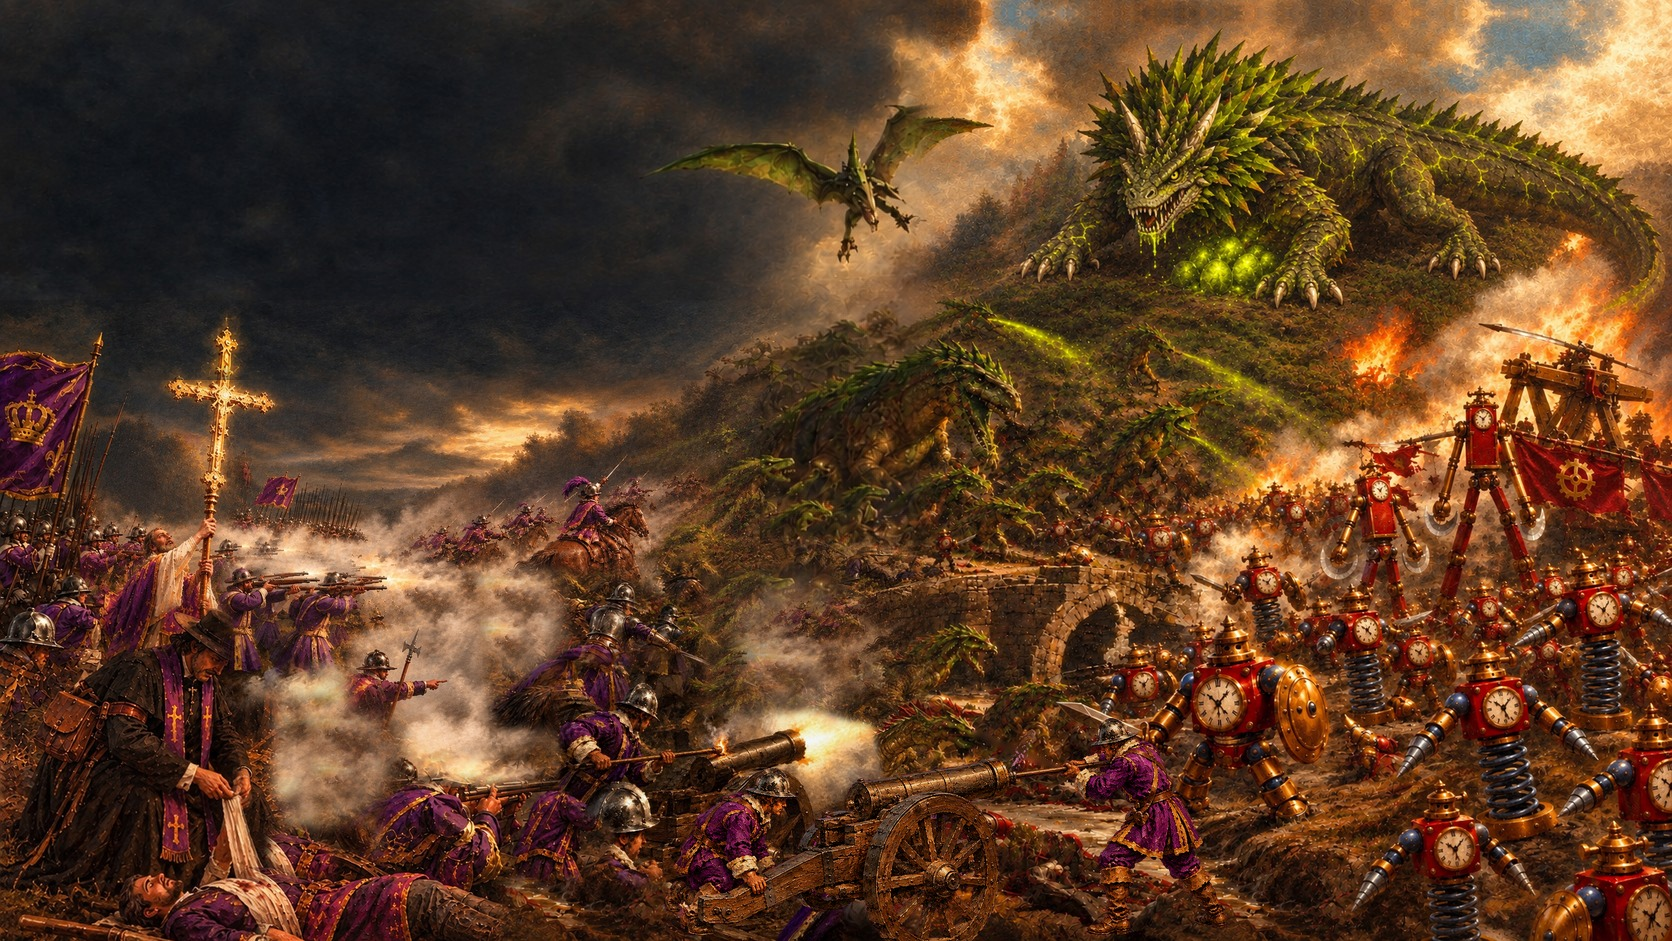
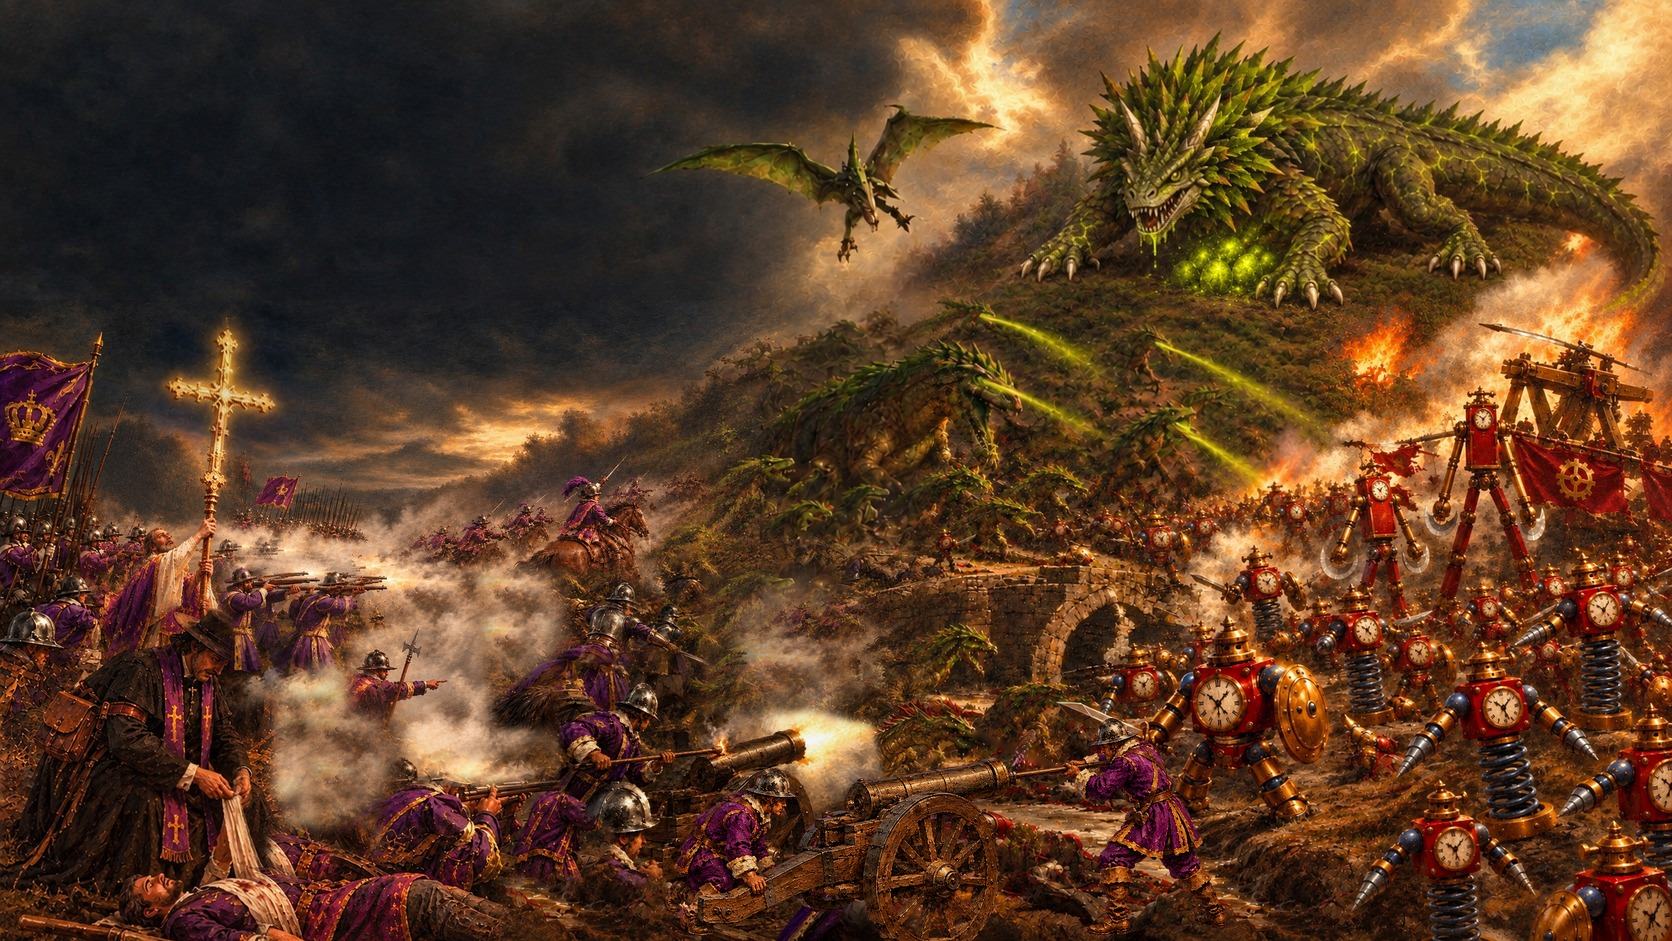
0.34.5: menu painting: the cross's glow, the Spitters' jets and the sky taken from the owner's ChatGPT smoothing pass (colour matched); the rest kept
Claude-Session: https://claude.ai/code/session_01NtmEZhP1uA8k4DLQ7BYfMz

diff --git a/tools/menu_fix_layers.py b/tools/menu_fix_layers.py
@@ -82,8 +82,21 @@ for L in json.load(open("art/menu_fix/layers.json")):
         a0 = np.asarray(m).copy()
         a0[:yb][~br[:yb]] = 0
         m = Image.fromarray(a0)
+    if L.get("not_green"):      # only where neither picture is green (a sky behind the Brood Mother's spikes)
+        def green(p):
+            return (p[..., 1] > p[..., 0] * 0.95) & (p[..., 1] > p[..., 2] * 1.15)
+        from scipy import ndimage
+        g = ndimage.binary_dilation(green(src) | green(out), iterations=4)
+        a0 = np.asarray(m).copy()
+        a0[g] = 0
+        m = Image.fromarray(a0)
     m = m.filter(ImageFilter.GaussianBlur(L.get("feather", 10)))
     a = (np.asarray(m).astype(float) / 255.0)[..., None] * L.get("opacity", 1.0)   # a see-through layer (dust over a part)
     moved = np.roll(np.roll(src, dy, 0), dx, 1)
+    if L.get("match"):          # a repaint whose colours drifted: its mean and spread per channel matched to the painting's
+        w = a[..., 0] > 0.5
+        for c in range(3):
+            s, o = moved[..., c][w], out[..., c][w]
+            moved[..., c] = (moved[..., c] - s.mean()) * (o.std() / max(s.std(), 1e-3)) + o.mean()
     out = out * (1 - a) + moved * a
 Image.fromarray(np.clip(out, 0, 255).astype(np.uint8)).save(sys.argv[1])

diff --git a/README.md b/README.md
@@ -2,7 +2,7 @@
 
 *(a working title: the game was called Holdfast until October 2026, but that name belongs to another game; the web address, the app file and the repository keep the old name for now so links and installs keep working)*
 
-**Play in your browser (version 0.34.4): https://holdfastrts.github.io/Holdfast/**
+**Play in your browser (version 0.34.5): https://holdfastrts.github.io/Holdfast/**
 
 **Windows program: https://holdfastrts.github.io/Holdfast/Holdfast_windows.zip** (rebuilt on every push; unzip it and run Holdfast.exe; if Windows warns "Windows protected your PC", click More info, then Run anyway)
 
